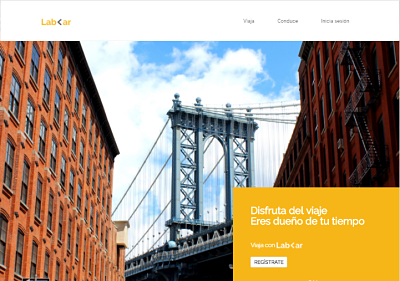
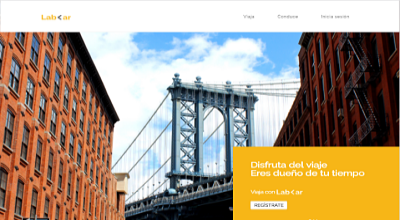
Modificando la estructura

diff --git a/index.html b/index.html
@@ -39,9 +39,9 @@
     </div>
   </header>
 
-  <section id="about-me">
+  <section id="about-me" class="pt-5">
     <div class="container">
-      <h3 class="sub-title pt-4 pb-4">Sobre mí</h3>
+      <h3 class="sub-title pt-4 pb-5">Sobre mí</h3>
       <div class="row">
         <div class="col-12 col-md-6 text-center mb-3">
           <img src="assets/images/image-melyna.jpg" alt="image-melyna" class="img-thumbnail">
@@ -50,27 +50,27 @@
           <p class="text-justify">Front-end developer y bachiller en Ingeniería de Sistemas e Informática. Me encanta resolver problemas lógicos
             a través de la programación y disfruto programar todo el tiempo. A futuro quiero desarrollar aplicaciones que
             contribuyan a la sociedad en los sectores de seguridad, salud, entre otros. </p>
-          <div class="row">
-            <div class="col-6 col-md-4">
+          <div class="row" id="h" >
+            <div class="col-6 col-md-4 text-center" >
               <img src="./assets/images/5_mejores.png" alt="5 mejores" width="60%">
-              <p>Una de las 5 mejores</p>
+              <p class="pt-2">Una de las 5 mejores</p>
             </div>
-            <div class="col-6 col-md-4">
+            <div class="col-6 col-md-4 text-center">
               <img src="./assets/images/trabajo_equipo.svg" height="50%" alt="trabajo equipo">
-              <p>Trabajo en equipo</p>
+              <p class="pt-2">Trabajo en equipo</p>
             </div>
-            <div class="col-6 col-md-4">
-              <img src="./assets/images/trabajo_equipo.svg" height="50%" alt="">
-              <p>Proactiva</p>
+            <div class="col-6 col-md-4 text-center">
+              <img src="./assets/images/proactiva.svg" height="50%" alt="Proactiva">
+              <p class="pt-2">Proactiva</p>
             </div>
           </div>
         </div>
       </div>
     </div>
   </section>
-  <section id="skill">
+  <section id="skill" class="pt-5 mt-3">
     <div class="container ">
-      <h2 class="sub-title  pt-4 pb-4">Habilidades</h2>
+      <h2 class="sub-title  pt-4 pb-5">Habilidades</h2>
       <div class="row">
         <div class="col-6 col-md-3 text-center">
           <i class="fab fa-html5 fa-7x"></i>
@@ -100,12 +100,11 @@
       </div>
     </div>
   </section>
-  <section id="projects" class="">
+  <section id="projects" class="pt-5">
     <div class="container">
       <h2 class="sub-title pt-4 pb-4">Proyectos</h2>
       <div class="row">
-        <div class="col-12">
-
+        <div class="col-12" class="mt-5">
           <div class="row">
             <div class="col-12 col-sm-6 col-md-6 col-lg-4">
               <div class="card">
@@ -115,8 +114,8 @@
                   <p class="card-text text-justify">LabCar es un sitio web donde disfrutarás tu viaje, te sentirás mas seguro, ya que te ayudará a tener información
                     de tu viaje como por ejemplo trazar tu ruta en google maps.</p>
                   <img class="img-fluid border" src="assets/images/image-lab-car.PNG" alt="">
-                  <a href="https://melynapernia.github.io/lab-car-boilerplate/" class="btn btn-info mt-3" target="_blank">Demo</a>
-                  <a href="https://github.com/MelynaPernia/lab-car-boilerplate/" class="btn btn-info mt-3" target="_blank">Código</a>
+                  <a href="https://melynapernia.github.io/lab-car-boilerplate/" class="btn btn-dark mt-3" target="_blank">Demo</a>
+                  <a href="https://github.com/MelynaPernia/lab-car-boilerplate/" class="btn btn-dark mt-3" target="_blank">Código</a>
                 </div>
               </div>
             </div>
@@ -150,9 +149,9 @@
       </div>
     </div>
   </section>
-  <section id="contact-me">
+  <section id="contact-me" class="pt-3">
     <div class="container">
-      <h2 class="sub-title pt-4 pb-4">Cantáctame</h2>
+      <h2 class="sub-title pt-4 pb-5">Cantáctame</h2>
       <div class="row">
         <div class="col-12 col-md-6 col-sm-12 text-center">
           <i class="fas fa-envelope fa-2x"></i>
@@ -161,7 +160,7 @@
         <div class="col-12 col-md-6 col-sm-12 text-center">
           <i class="fab fa-github fa-2x"></i>
           <p>
-            <a href="https://github.com/MelynaPernia" target="_blank">https://github.com/MelynaPernia</a>
+            <a href="https://github.com/MelynaPernia"  target="_blank">https://github.com/MelynaPernia</a>
           </p>
         </div>
         <div class="col-12 col-md-6 col-sm-12 text-center">

diff --git a/css/main.css b/css/main.css
@@ -34,7 +34,8 @@ nav {
 
 .card {
   box-shadow: 3px 3px 2px #c3c3c3;
-  margin: 2vh;
+  height: auto;
+  margin-bottom: 2vh;
 }
 
 footer {
@@ -66,7 +67,7 @@ footer {
 }
 
 #skill .fab:hover {
-  color: #1B9AAA;
+  color: #344373;
   font-size: 150px;
 }
 
@@ -75,17 +76,33 @@ footer {
   text-decoration-line: underline;
 }
 
-#skill, #contact-me {
+#skill,
+#contact-me {
   background-color: #f0f0f0;
 }
-
-.btn {
-  /* background-color: #1A3B59 */
+#contact-me {
+  padding-top: 10vh
+}
+.btn-dark {
+  background-color: #344373;
 }
 
 .btn-dark:hover {
   background-color: #FFFFFF;
-  color: #050505
+  color: #344373
+}
+
+#contact-me a {
+  color: #344373
+}
+
+#contact-me a:hover {
+  font-weight: bold;
+}
+
+#projects {
+  height: auto;
+  padding-bottom: 10vh
 }
 
 @media screen and (min-width:760px) {
@@ -93,12 +110,22 @@ footer {
     width: 50%;
   }
   .navbar-nav a:hover {
-    border-bottom: 4px solid #1B9AAA;
+    border-bottom: 4px solid #344373;
     font-size: 18px;
   }
   #about-me,
   #skill {
-    height: 85vh;
+    height: 100vh;
+  }
+  #projects {
+    height: 100%;
+    margin-bottom: 10vh;
+  }
+  #contact-me {
+    height: 80vh;
+  }
+  #projects .card {
+    height: 80vh
   }
   #skill .row>div {
     margin-top: 2vh;
